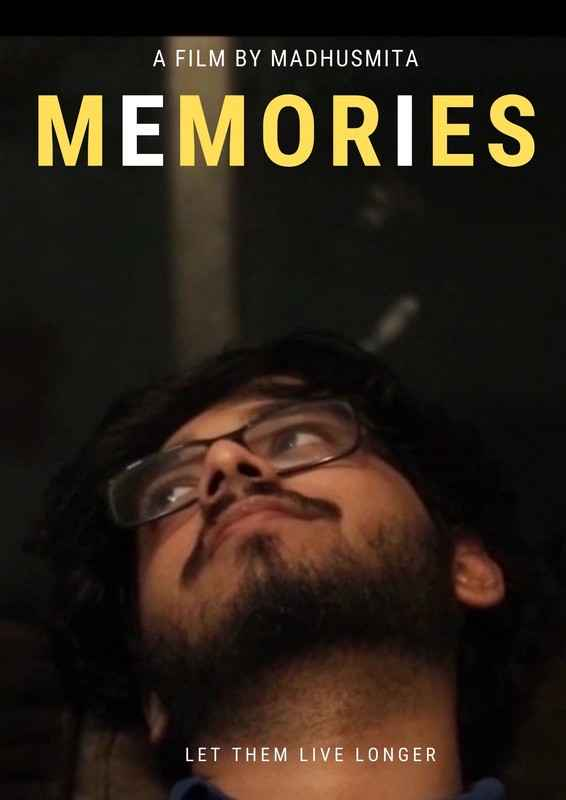
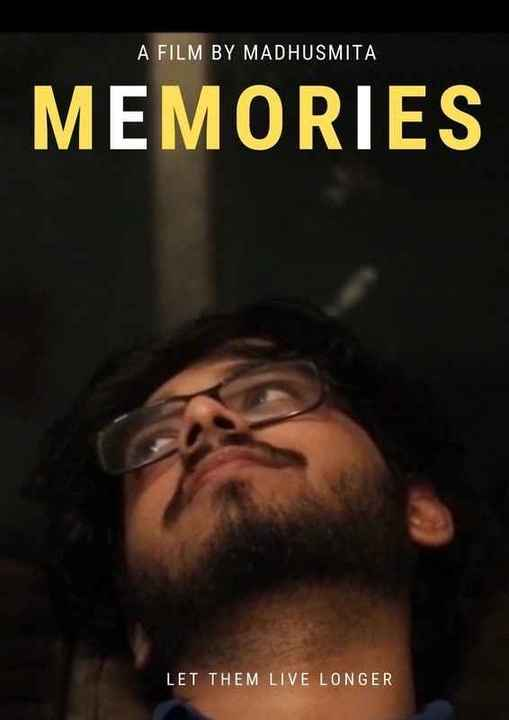
updated components, reduced image res.

diff --git a/src/components/Stills.js b/src/components/Stills.js
@@ -5,83 +5,96 @@ import './Stills.css'
 function Stills() {
   const stillsAlbumsLeft = [
     {
-      albumName: 'Loreal',
-      albumSource: 'loreal',
-      albumLink: 'https://drive.google.com/drive/folders/1cL8DM5NZWhA-DOaEzOJmQO2yaTDZ2OUp?usp=sharing',
-      albumClass: 'portrait',
+      name: 'Loreal',
+      source: 'loreal_1',
+      link: 'https://drive.google.com/drive/folders/1cL8DM5NZWhA-DOaEzOJmQO2yaTDZ2OUp?usp=sharing',
+      class: 'portrait',
     },
     {
-      albumName: 'album 2',
-      albumSource: 'about',
-      albumLink: 'https://www.google.com/',
-      albumClass: '',
+      name: 'Theatre',
+      source: 'theatre_2',
+      link: 'https://www.google.com/',
+      class: 'landscape',
     },
     {
-      albumName: 'album 3',
-      albumSource: 'about',
-      albumLink: 'https://www.google.com/',
-      albumClass: 'landscape',
+      name: 'Theatre',
+      source: 'theatre_1',
+      link: 'https://www.google.com/',
+      class: '',
     },
     {
-      albumName: 'album 4',
-      albumSource: 'about',
-      albumLink: 'https://www.google.com/',
-      albumClass: 'landscape',
+      name: 'Modern Love',
+      source: 'mdLove_3',
+      link: 'https://www.google.com/',
+      class: 'landscape',
     },
     {
-      albumName: 'album 5',
-      albumSource: 'about',
-      albumLink: 'https://www.google.com/',
-      albumClass: '',
+      name: 'Theatre',
+      source: 'theatre_3',
+      link: 'https://www.google.com/',
+      class: 'landscape',
     },
     {
-      albumName: 'album 6',
-      albumSource: 'about',
-      albumLink: 'https://www.google.com/',
-      albumClass: 'portrait',
+      name: 'Theatre',
+      source: 'theatre_4',
+      link: 'https://www.google.com/',
+      class: '',
+    },
+    {
+      name: 'Loreal',
+      source: 'loreal_2',
+      link: 'https://www.google.com/',
+      class: 'portrait',
     },
   ];
   const stillsAlbumsRight = [
     {
-      albumName: 'album 1',
-      albumSource: 'about',
-      albumLink: 'https://www.google.com/',
-      albumClass: '',
+      name: 'Modern Love',
+      source: 'mdLove_2',
+      link: 'https://www.google.com/',
+      class: 'landscape',
     },
     {
-      albumName: 'album 2',
-      albumSource: 'about',
-      albumLink: 'https://www.google.com/',
-      albumClass: 'portrait',
+      name: 'Modern Love',
+      source: 'mdLove_1',
+      link: 'https://www.google.com/',
+      class: '',
     },
     {
-      albumName: 'album 3',
-      albumSource: 'loreal',
-      albumLink: 'https://www.google.com/',
-      albumClass: 'landscape',
+      name: 'Modern Love',
+      source: 'mdLove_4',
+      link: 'https://www.google.com/',
+      class: 'portrait',
     },
     {
-      albumName: 'album 4',
-      albumSource: 'about',
-      albumLink: 'https://www.google.com/',
-      albumClass: '',
+      name: 'Loreal',
+      source: 'loreal_4',
+      link: 'https://www.google.com/',
+      class: 'landscape',
     },
     {
-      albumName: 'album 5',
-      albumSource: 'about',
-      albumLink: 'https://www.google.com/',
-      albumClass: 'portrait',
+      name: 'Modern Love',
+      source: 'mdLove_5',
+      link: 'https://www.google.com/',
+      class: '',
     },
     {
-      albumName: 'album 6',
-      albumSource: 'about',
-      albumLink: 'https://www.google.com/',
-      albumClass: 'landscape',
+      name: 'Modern Love',
+      source: 'mdLove_6',
+      link: 'https://www.google.com/',
+      class: 'portrait',
+    },
+    {
+      name: 'Loreal',
+      source: 'loreal_3',
+      link: 'https://www.google.com/',
+      class: 'landscape',
     },
   ];
 
   const linkHandler = (link) => {
-    window.open(link);
+    // window.open(link);
+    return
   }
 
   return (
@@ -89,9 +102,9 @@ function Stills() {
       <section>
       {stillsAlbumsLeft.map((album) => {
         return (
-          <span key={`album${album.albumName}`}>
-            <img className={`album ${album.albumClass}`} src={ process.env.PUBLIC_URL + `/images/${album.albumSource}.jpg` } alt="Madhusmita Das" />
-            <span onClick={() => linkHandler(album.albumLink)}>{`${album.albumName}`}</span>
+          <span key={`album${album.name}`}>
+            <img className={`album ${album.class}`} src={ process.env.PUBLIC_URL + `/images/${album.source}.jpg` } alt="Madhusmita Das" />
+            <span onClick={() => linkHandler(album.link)}>{`${album.name}`}</span>
           </span>
         )
       })}
@@ -99,9 +112,9 @@ function Stills() {
       <section>
       {stillsAlbumsRight.map((album) => {
         return (
-          <span key={`album${album.albumName}`}>
-            <img className={`album ${album.albumClass}`} src={ process.env.PUBLIC_URL + `/images/${album.albumSource}.jpg` } alt="Madhusmita Das" />
-            <span onClick={() => linkHandler(album.albumLink)}>{`${album.albumName}`}</span>
+          <span key={`album${album.name}`}>
+            <img className={`album ${album.class}`} src={ process.env.PUBLIC_URL + `/images/${album.source}.jpg` } alt="Madhusmita Das" />
+            <span onClick={() => linkHandler(album.link)}>{`${album.name}`}</span>
           </span>
         )
       })}

diff --git a/src/components/Stills.css b/src/components/Stills.css
@@ -25,13 +25,14 @@ section.stills > section > span > img.album.portrait {
   width: 35vw;
 }
 
-section.stills > section > span > span:hover {
+/* section.stills > section > span > span:hover {
   opacity: 1;
   background-color: rgba(255, 255, 255, 0.4);
-}
+} */
 
 section.stills > section > span > span {
-  cursor: pointer;
+  /* cursor: pointer; */
+  cursor: default;
   position: absolute;
   display: flex;
   justify-content: center;
@@ -72,7 +73,7 @@ section.stills > section > span > span {
     width: 80vw;
   }
 
-  section.stills > section > span > span {
+  /* section.stills > section > span > span {
     justify-content: flex-start;
     align-items: flex-end;
 
@@ -85,9 +86,9 @@ section.stills > section > span > span {
     padding: 0 1rem;
     background-image: linear-gradient(transparent calc(100% - 1.5rem), rgba(255, 255, 255, 0.4) 1.5rem);
     opacity: 1;
-  }
+  } */
 
-  section.stills > section > span > span:hover {
+  /* section.stills > section > span > span:hover {
     background-color: transparent;
-  }
+  } */
 }

diff --git a/src/components/Info.js b/src/components/Info.js
@@ -3,7 +3,7 @@ import About from './About'
 import Stills from './Stills'
 import Bts from './Bts'
 import ShortFilms from './ShortFilms'
-import Collabs from './Collabs'
+import Videos from './Videos'
 
 import './Info.css'
 
@@ -13,7 +13,7 @@ function Info(props) {
     'STILLS': 1,
     'BTS': 2,
     'SHORT FILMS': 3,
-    'COLLABS': 4,
+    'VIDEOS': 4,
   };
 
   if (infoIndex[props.heading] === 0) {
@@ -34,7 +34,7 @@ function Info(props) {
     )
   } else if (infoIndex[props.heading] === 4) {
     return (
-      < Collabs />
+      < Videos />
     )
   }
 }

diff --git a/src/components/Navbar.js b/src/components/Navbar.js
@@ -52,7 +52,7 @@ function Navbar() {
       <span onClick={() => scrollToSection(1)} className='nav-link'>STILLS</span>
       <span onClick={() => scrollToSection(2)} className='nav-link'>BTS</span>
       <span onClick={() => scrollToSection(3)} className='nav-link'>SHORT FILMS</span>
-      <span onClick={() => scrollToSection(4)} className='nav-link'>COLLABS</span>
+      <span onClick={() => scrollToSection(4)} className='nav-link'>VIDEOS</span>
       <span ref={toggler} onClick={toggleNav} className='hamburger'><i></i><i></i><i></i></span>
     </nav>
   )

diff --git a/src/App.js b/src/App.js
@@ -11,7 +11,7 @@ function App() {
     < Section heading ='STILLS' bgImage ='stills' />
     < Section heading ='BTS' bgImage ='bts' />
     < Section heading ='SHORT FILMS' bgImage ='short films' />
-    < Section heading ='COLLABS' bgImage ='collabs' />
+    < Section heading ='VIDEOS' bgImage ='videos' />
     </>
   );
 }

diff --git a/src/components/Videos.js b/src/components/Videos.js
@@ -1,9 +1,11 @@
 import React from 'react'
 
-function Collabs() {
+import './Videos.css'
+
+function Videos() {
   return (
     <div>MyComponent</div>
   )
 }
 
-export default Collabs
+export default Videos
